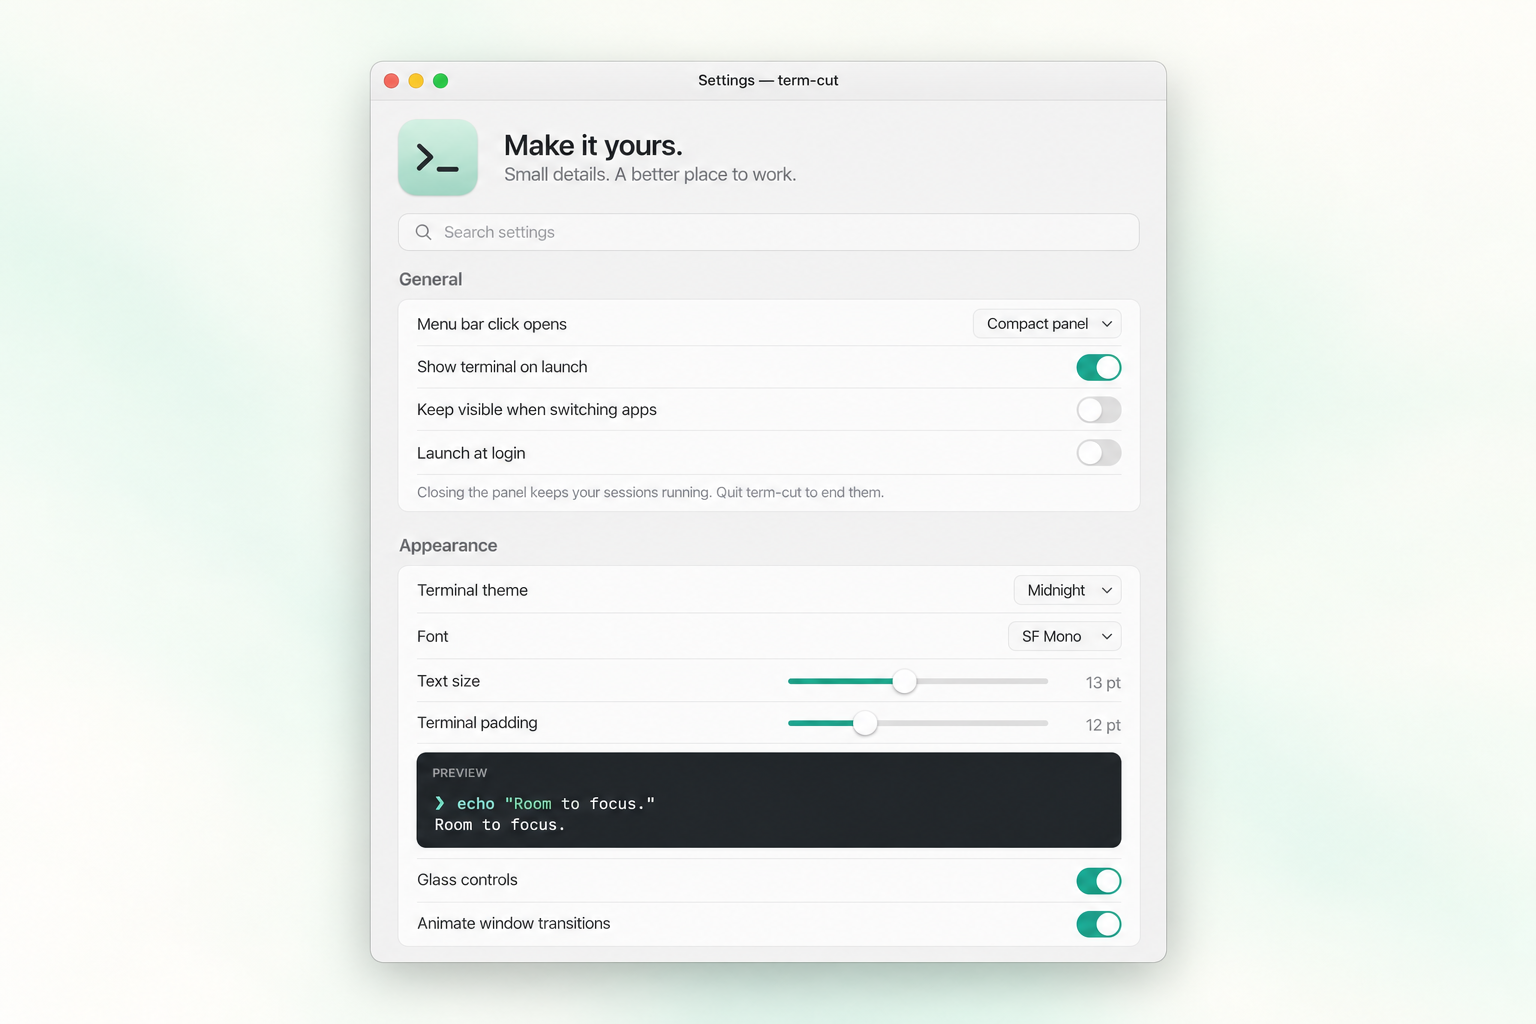
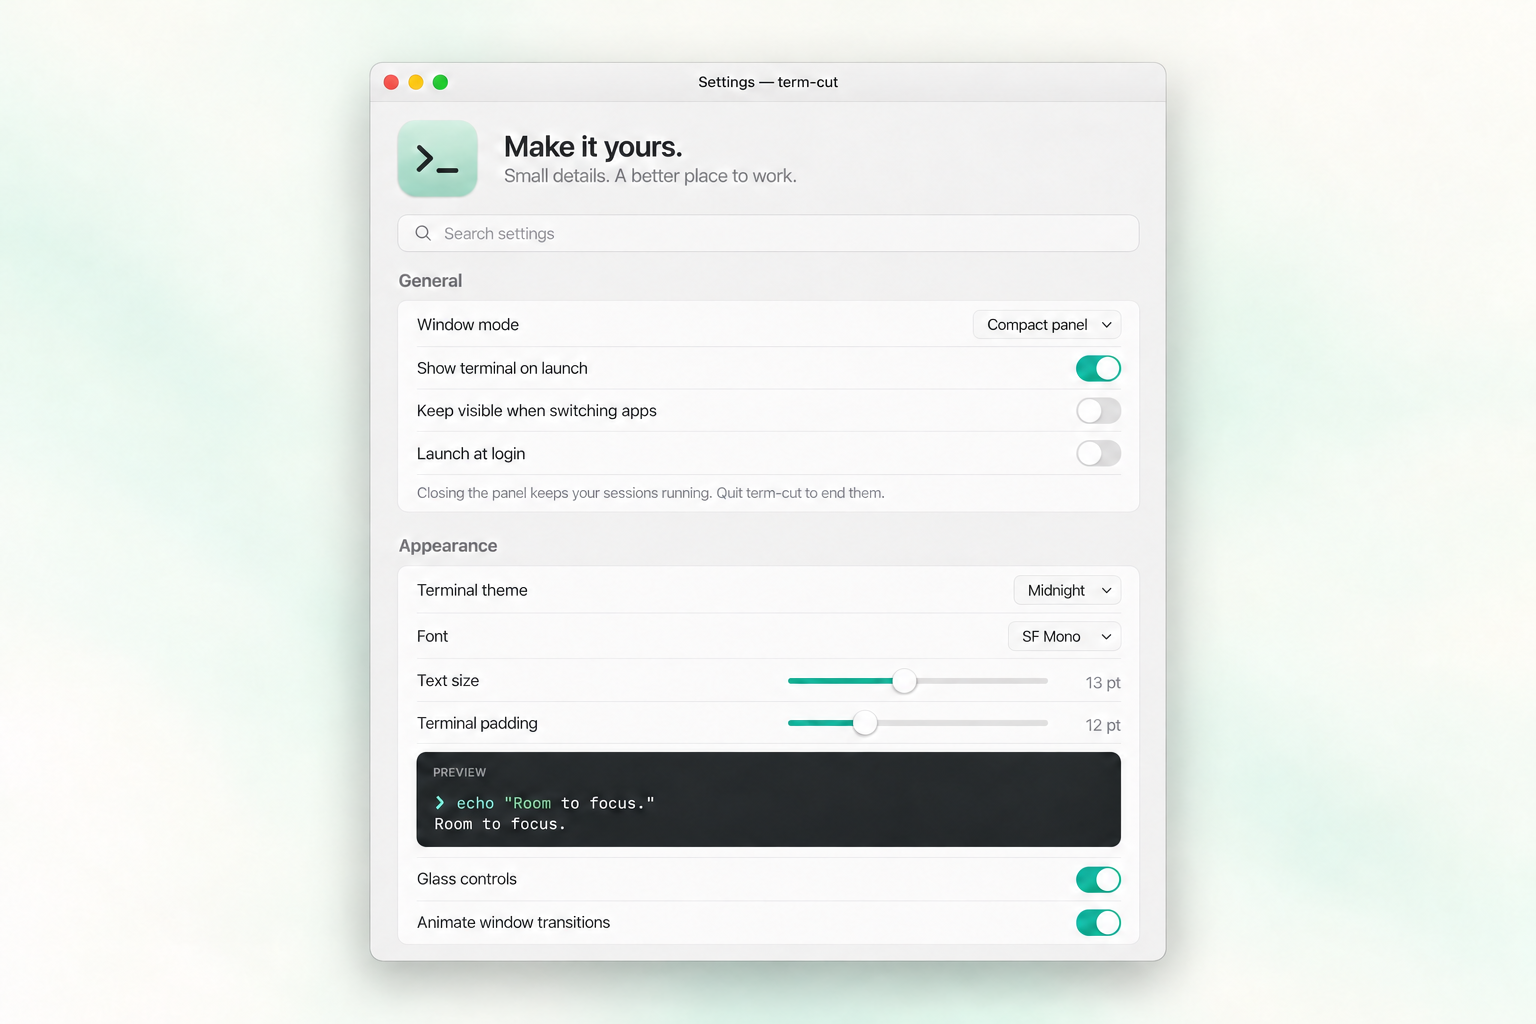
Preserve the last window mode when hiding and reopening

diff --git a/Sources/TermCut/AppDelegate.swift b/Sources/TermCut/AppDelegate.swift
@@ -60,11 +60,11 @@ final class AppDelegate: NSObject, NSApplicationDelegate, NSMenuItemValidation {
         else if CommandLine.arguments.contains("--about") { showAbout() }
         else if CommandLine.arguments.contains("--dropdown") { terminalPanel.show(.dropDown) }
         else if CommandLine.arguments.contains("--compact") { terminalPanel.show(.compact) }
-        else if settings.value.showOnLaunch { terminalPanel.show(settings.value.menuBarMode) }
+        else if settings.value.showOnLaunch { terminalPanel.show(workspace.mode) }
     }
 
     func applicationShouldHandleReopen(_ sender: NSApplication, hasVisibleWindows flag: Bool) -> Bool {
-        terminalPanel.show(settings.value.menuBarMode)
+        terminalPanel.show(workspace.mode)
         return false
     }
     func applicationWillTerminate(_ notification: Notification) { workspace?.stopAll() }
@@ -91,7 +91,7 @@ final class AppDelegate: NSObject, NSApplicationDelegate, NSMenuItemValidation {
             statusItem.menu = menu
             statusItem.button?.performClick(nil)
             statusItem.menu = nil
-        } else { terminalPanel.toggle(settings.value.menuBarMode) }
+        } else { terminalPanel.toggle(workspace.mode) }
     }
 
     @objc private func showCompact() { terminalPanel.show(.compact) }
@@ -125,7 +125,7 @@ final class AppDelegate: NSObject, NSApplicationDelegate, NSMenuItemValidation {
         terminalPanel?.hide()
         if settingsWindow == nil {
             settingsWindow = UtilityWindowController(title: "Settings — term-cut", size: NSSize(width: 620, height: 680),
-                                                     content: SettingsView(settings: settings, hotKeys: hotKeys), autosave: "term-cut-settings")
+                                                     content: SettingsView(settings: settings, hotKeys: hotKeys, workspace: workspace), autosave: "term-cut-settings")
         }
         settingsWindow?.present()
     }

diff --git a/Tests/TermCutTests/WindowModeTests.swift b/Tests/TermCutTests/WindowModeTests.swift
@@ -1,0 +1,27 @@
+import XCTest
+import TermCutCore
+@testable import TermCut
+
+@MainActor
+final class WindowModeTests: XCTestCase {
+    func testLastUsedModeSurvivesRestartAndUnrelatedPreferenceChanges() {
+        let suite = "term-cut-mode-tests-\(UUID().uuidString)"
+        let defaults = UserDefaults(suiteName: suite)!
+        defer { defaults.removePersistentDomain(forName: suite) }
+        let settings = SettingsStore(defaults: defaults)
+        settings.value.menuBarMode = .dropDown
+        let workspace = TerminalWorkspace(settings: settings)
+        XCTAssertEqual(workspace.mode, .dropDown)
+
+        workspace.mode = .compact
+        settings.value.theme = .paper
+        settings.value.fontSize = 16
+        workspace.applyPreferences()
+        let reopened = TerminalWorkspace(settings: SettingsStore(defaults: UserDefaults(suiteName: suite)!))
+        XCTAssertEqual(reopened.mode, .compact)
+
+        reopened.mode = .dropDown
+        let restarted = TerminalWorkspace(settings: SettingsStore(defaults: UserDefaults(suiteName: suite)!))
+        XCTAssertEqual(restarted.mode, .dropDown)
+    }
+}

diff --git a/Sources/TermCut/SettingsView.swift b/Sources/TermCut/SettingsView.swift
@@ -25,6 +25,7 @@ final class LoginItemStore: ObservableObject {
 struct SettingsView: View {
     @ObservedObject var settings: SettingsStore
     @ObservedObject var hotKeys: HotKeyManager
+    @ObservedObject var workspace: TerminalWorkspace
     @StateObject private var login = LoginItemStore()
     @State private var search = ""
 
@@ -45,9 +46,9 @@ struct SettingsView: View {
                 .accessibilityLabel("Search settings")
 
             Form {
-                if matches("general startup login pin menu bar launch hide visibility compact drop-down") {
+                if matches("general startup mode login pin menu bar launch hide visibility compact drop-down") {
                     Section("General") {
-                        Picker("Menu bar click opens", selection: $settings.value.menuBarMode) {
+                        Picker("Window mode", selection: $workspace.mode) {
                             Text("Compact panel").tag(PanelMode.compact)
                             Text("Drop-down terminal").tag(PanelMode.dropDown)
                         }

diff --git a/Sources/TermCut/TerminalSession.swift b/Sources/TermCut/TerminalSession.swift
@@ -131,7 +131,9 @@ final class TerminalWorkspace: ObservableObject {
     @Published private(set) var activeTabID: UUID?
     @Published private(set) var activeID: UUID?
     @Published private(set) var zoomedPaneID: UUID?
-    @Published var mode: PanelMode = .compact
+    @Published var mode: PanelMode {
+        didSet { settings.lastWindowMode = mode }
+    }
     let settings: SettingsStore
     var onHide: (() -> Void)?
     var onModeChange: ((PanelMode) -> Void)?
@@ -140,7 +142,10 @@ final class TerminalWorkspace: ObservableObject {
     var preventsAutoHide = false
     private var splitFractions: [String: Double] = [:]
 
-    init(settings: SettingsStore) { self.settings = settings }
+    init(settings: SettingsStore) {
+        self.settings = settings
+        mode = settings.lastWindowMode
+    }
     var active: TerminalSession? { sessions.first { $0.id == activeID } }
     var activeTab: TerminalTab? { tabs.first { $0.id == activeTabID } }
     var activity: TerminalActivity { TerminalActivity.combined(sessions.map(\.activity)) }

diff --git a/Sources/TermCut/Preferences.swift b/Sources/TermCut/Preferences.swift
@@ -116,6 +116,11 @@ final class SettingsStore: ObservableObject {
     var onChange: (() -> Void)?
     private let defaults: UserDefaults
 
+    var lastWindowMode: PanelMode {
+        get { defaults.string(forKey: "lastWindowMode").flatMap(PanelMode.init(rawValue:)) ?? value.menuBarMode }
+        set { defaults.set(newValue.rawValue, forKey: "lastWindowMode") }
+    }
+
     init(defaults: UserDefaults = .standard) {
         self.defaults = defaults
         if let data = defaults.data(forKey: "preferences"), let saved = try? JSONDecoder().decode(AppPreferences.self, from: data) {

diff --git a/Sources/TermCutCore/ShellConfiguration.swift b/Sources/TermCutCore/ShellConfiguration.swift
@@ -14,7 +14,7 @@ public struct ShellConfiguration {
         environment["TERM"] = "xterm-256color"
         environment["COLORTERM"] = "truecolor"
         environment["TERM_PROGRAM"] = "term-cut"
-        environment["TERM_PROGRAM_VERSION"] = "0.1.3"
+        environment["TERM_PROGRAM_VERSION"] = "0.1.4"
         environment["HOME"] = home
         environment["SHELL"] = executable
         if URL(fileURLWithPath: executable).lastPathComponent == "zsh", arguments == ["-l"], let integrationDirectory {

diff --git a/README.md b/README.md
@@ -72,6 +72,8 @@ Drag `build/term-cut.app` into Applications. Open **More options (⋯)** in the 
 
 Global shortcuts can be changed in Settings. Escape stays available to your shell and editors. Sessions last until you close them or quit the app; they are not restored after quitting. Working-directory inheritance requires shell OSC 7 support.
 
+The menu bar reopens the current window mode, including after a macOS permission dialog. Your last mode is also remembered when you quit and reopen the app. Switch modes from **Settings → Window mode**, global shortcuts, or **⋯ → Window Mode**.
+
 ## Activity indicators
 
 Automatic command tracking supports your top-level **zsh** login shell. Its normal startup files still load; term-cut does not edit them. Green means ready, yellow means a foreground command is running, and red means the last command returned a nonzero exit status. A new command replaces that status. The menu bar gives failed sessions priority across all tabs and panes, including hidden ones.

diff --git a/docs/releases/v0.1.4.md b/docs/releases/v0.1.4.md
@@ -1,0 +1,9 @@
+Reopen where you left off.
+
+- Fixed the menu bar opening a different mode after the terminal hides, including when a macOS permission dialog takes focus.
+- Remember the last window mode across quitting and reopening the app. Existing sessions stay open while the running app is hidden.
+- **Window mode** in Settings, global shortcuts, and **More options (⋯) → Window Mode** all select the mode to keep using.
+
+Requires macOS 13 or later. Supports Apple silicon and Intel.
+
+This build is ad-hoc signed, without Apple notarization. macOS may require approval in System Settings → Privacy & Security on first launch.
